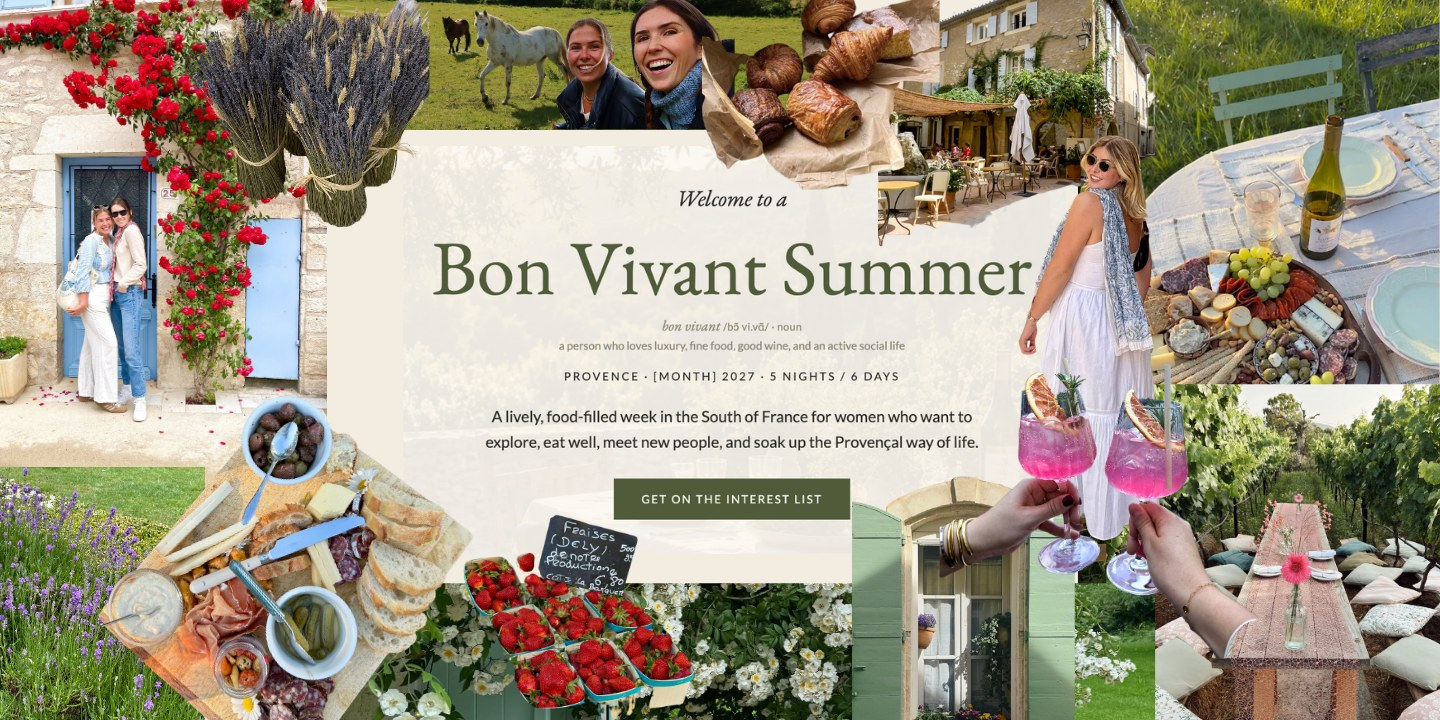
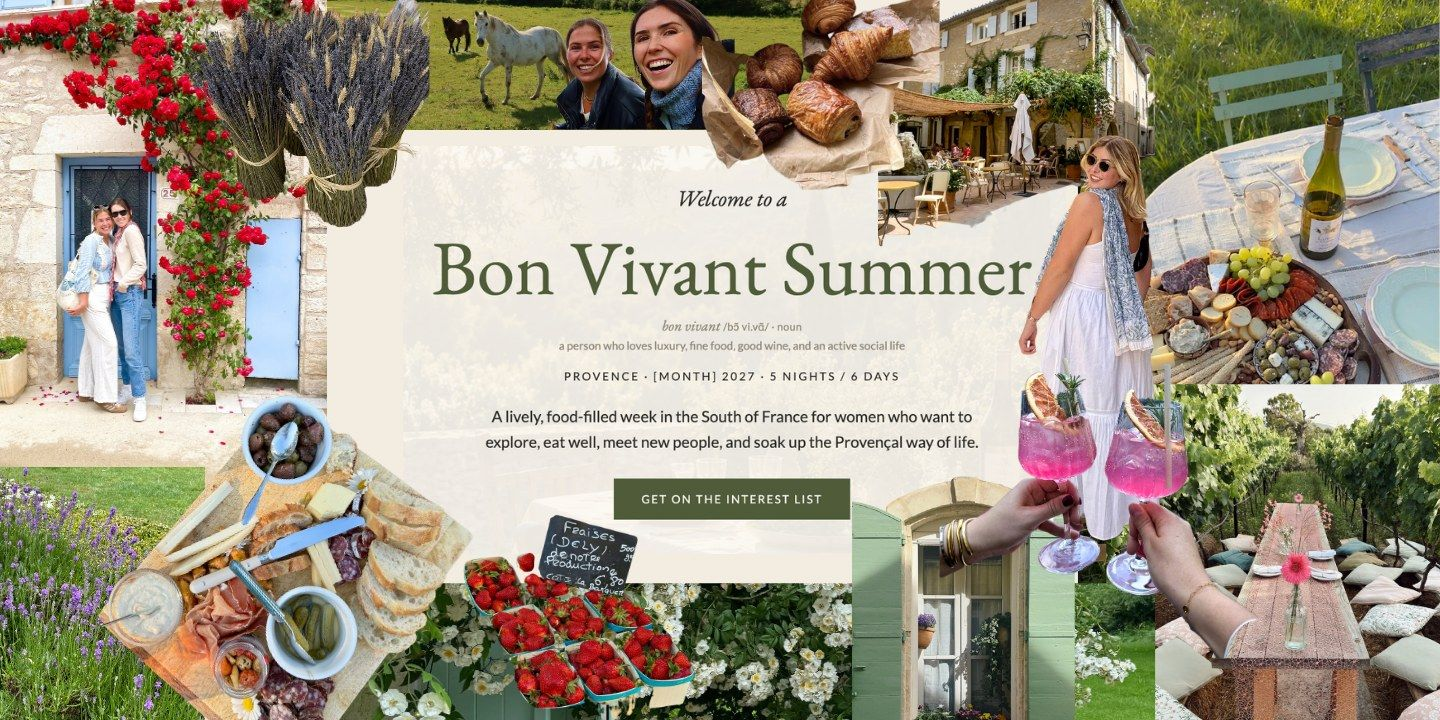
Serve the Retreats hero as WebP with a smaller mobile size
Claude-Session: https://claude.ai/code/session_016Q8dL6JmJZhik5BirDmPp2

Changed region(s): [[0.0312, 0.7028, 0.0938, 0.7944], [0.0, 0.6722, 0.0312, 0.7028]]

diff --git a/src/pages/RetreatsPage.js b/src/pages/RetreatsPage.js
@@ -30,11 +30,19 @@ function RetreatsPage() {
         {/* Hero: Emmy's finished design (title, dates and button are part of the image) */}
         <section style={styles.hero}>
           <div style={styles.heroFrame}>
-            <img
-              src={HERO_IMAGE}
-              alt="Bon Vivant Summer. Provence, [Month] 2027, 5 nights / 6 days. A lively, food-filled week in the South of France for women who want to explore, eat well, meet new people, and soak up the Provençal way of life."
-              style={styles.heroImg}
-            />
+            <picture>
+              <source media="(max-width: 899px)" srcSet="/videos/retreat-hero-720.webp" type="image/webp" />
+              <source srcSet="/videos/retreat-hero.webp" type="image/webp" />
+              <img
+                src={HERO_IMAGE}
+                width="1440"
+                height="720"
+                fetchPriority="high"
+                decoding="async"
+                alt="Bon Vivant Summer. Provence, [Month] 2027, 5 nights / 6 days. A lively, food-filled week in the South of France for women who want to explore, eat well, meet new people, and soak up the Provençal way of life."
+                style={styles.heroImg}
+              />
+            </picture>
             <h1 style={styles.srOnly}>Bon Vivant Summer</h1>
             {/* Clickable area over the button drawn in the image (desktop and tablet) */}
             {!isMobile && (
